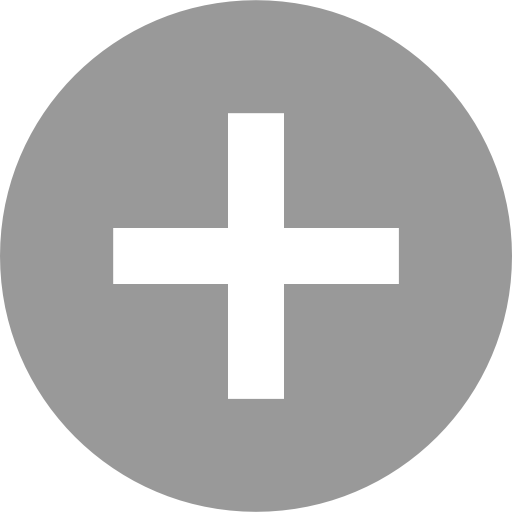
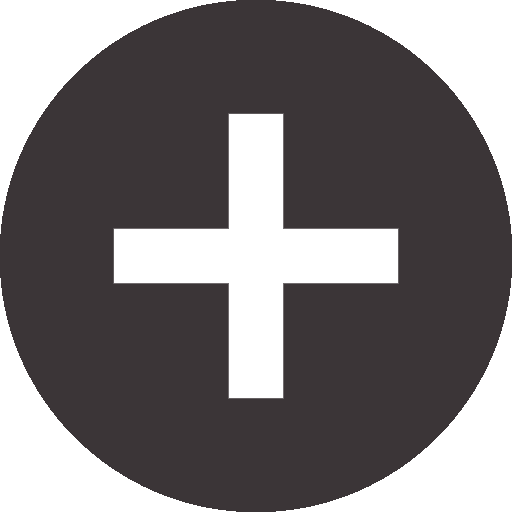
fixed add button and introduced dedicated windows user

diff --git a/Smurftown/UI/MVVM/View/AccountsView.xaml b/Smurftown/UI/MVVM/View/AccountsView.xaml
@@ -1,77 +1,99 @@
 <UserControl x:Class="Smurftown.UI.MVVM.View.AccountsView"
              xmlns="http://schemas.microsoft.com/winfx/2006/xaml/presentation"
              xmlns:x="http://schemas.microsoft.com/winfx/2006/xaml"
-             xmlns:mc="http://schemas.openxmlformats.org/markup-compatibility/2006" 
-             xmlns:d="http://schemas.microsoft.com/expression/blend/2008" 
+             xmlns:mc="http://schemas.openxmlformats.org/markup-compatibility/2006"
+             xmlns:d="http://schemas.microsoft.com/expression/blend/2008"
              xmlns:md="https://github.com/fantasticfiasco/mvvm-dialogs"
              xmlns:local="clr-namespace:Smurftown.UI.MVVM.View"
              xmlns:viewModel="clr-namespace:Smurftown.UI.MVVM.ViewModel"
-             mc:Ignorable="d" 
+             mc:Ignorable="d"
              d:DesignHeight="450" d:DesignWidth="800"
              md:DialogServiceViews.IsRegistered="True"
              Background="Transparent">
-    
+
     <UserControl.DataContext>
-        <viewModel:AccountsViewModel/>
+        <viewModel:AccountsViewModel />
     </UserControl.DataContext>
-    
+
     <Grid>
         <Grid.ColumnDefinitions>
-            <ColumnDefinition/>
+            <ColumnDefinition />
         </Grid.ColumnDefinitions>
         <Grid.RowDefinitions>
-            <RowDefinition Height="80"/>
-            <RowDefinition/>
+            <RowDefinition Height="80" />
+            <RowDefinition />
         </Grid.RowDefinitions>
 
         <DockPanel Grid.Row="0" Height="60" VerticalAlignment="Top" Background="#24262e" Margin="20,10,20,10">
-            <TextBlock Foreground="Gray" FontWeight="Bold" FontSize="14" VerticalAlignment="Center"  Margin="20,0,0,0">FILTER</TextBlock>
+            <TextBlock Foreground="Gray" FontWeight="Bold" FontSize="14" VerticalAlignment="Center" Margin="20,0,0,0">FILTER</TextBlock>
 
-            <ToggleButton IsChecked="{Binding OverwatchFiltered}" Style="{StaticResource BattlenetIconButtonTheme}" Margin="20,0,0,0" Width="50">
-                <Image Source="pack://application:,,,/UI/Images/overwatch.png"  RenderOptions.BitmapScalingMode="HighQuality" Height="35" Width="35" />
+            <ToggleButton Opacity="100" IsChecked="{Binding OverwatchFiltered}"
+                          Style="{StaticResource BattlenetIconButtonTheme}" Margin="20,0,0,0" Width="70">
+                <Image Source="pack://application:,,,/UI/Images/overwatch.png"
+                       RenderOptions.BitmapScalingMode="HighQuality" Height="35" Width="35" />
             </ToggleButton>
-            <ToggleButton IsChecked="{Binding HotsFiltered}" Style="{StaticResource BattlenetIconButtonTheme}" Margin="0" Width="50">
-                <Image Source="pack://application:,,,/UI/Images/hots.png"  RenderOptions.BitmapScalingMode="HighQuality" Height="35" Width="35" />
+            <ToggleButton IsChecked="{Binding HotsFiltered}" Style="{StaticResource BattlenetIconButtonTheme}"
+                          Margin="0" Width="70">
+                <Image Source="pack://application:,,,/UI/Images/hots.png" RenderOptions.BitmapScalingMode="HighQuality"
+                       Height="37" Width="37" />
             </ToggleButton>
-            <ToggleButton IsChecked="{Binding WowFiltered}" Style="{StaticResource BattlenetIconButtonTheme}" Margin="0" Width="50">
-                <Image Source="pack://application:,,,/UI/Images/wow.png"  RenderOptions.BitmapScalingMode="HighQuality" Height="35" Width="35" />
+            <ToggleButton IsChecked="{Binding WowFiltered}" Style="{StaticResource BattlenetIconButtonTheme}"
+                          Margin="0" Width="70">
+                <Image Source="pack://application:,,,/UI/Images/wow.png" RenderOptions.BitmapScalingMode="HighQuality"
+                       Height="40" Width="40" />
             </ToggleButton>
-            <ToggleButton IsChecked="{Binding DiabloFiltered}" Style="{StaticResource BattlenetIconButtonTheme}" Margin="0" Width="50">
-                <Image Source="pack://application:,,,/UI/Images/diablo4.png"  RenderOptions.BitmapScalingMode="HighQuality" Height="35" Width="35" />
+            <ToggleButton IsChecked="{Binding DiabloFiltered}" Style="{StaticResource BattlenetIconButtonTheme}"
+                          Margin="0" Width="70">
+                <Image Source="pack://application:,,,/UI/Images/diablo4.png"
+                       RenderOptions.BitmapScalingMode="HighQuality" Height="40" Width="40" />
             </ToggleButton>
-            <Button Command="{Binding CreateAccountCommand}" Background="Transparent" HorizontalAlignment="Right" BorderBrush="Transparent" Style="{StaticResource BattlenetButtonSecondaryTheme}" Margin="0,0,30,0" Width="60">
-                <Image Source="pack://application:,,,/UI/Images/add.png"  Height="35" Width="35"/>
+            <Button Command="{Binding CreateAccountCommand}" Background="Transparent" HorizontalAlignment="Right"
+                    BorderBrush="Transparent" Style="{StaticResource BattlenetButtonSecondaryTheme}" Margin="0,0,30,0"
+                    Width="70">
+                <Grid>
+                    <!-- Outer Circle -->
+                    <Ellipse Width="36" Height="36" Fill="#FF454545" />
+
+                    <!-- Horizontal Line of Plus Sign -->
+                    <Rectangle Width="12" Height="2" Fill="White" VerticalAlignment="Center"
+                               HorizontalAlignment="Center" />
+
+                    <!-- Vertical Line of Plus Sign -->
+                    <Rectangle Width="2" Height="12" Fill="White" VerticalAlignment="Center"
+                               HorizontalAlignment="Center" />
+                </Grid>
             </Button>
 
         </DockPanel>
 
-        <ItemsControl  Grid.Row="1"  ItemsSource="{Binding BattlenetAccounts, UpdateSourceTrigger=PropertyChanged}">
-                
-                <ItemsControl.ItemsPanel>
-                    <ItemsPanelTemplate>
-                 
-                        <WrapPanel Orientation="Horizontal" HorizontalAlignment="Center"/>
-                   
+        <ItemsControl Grid.Row="1" ItemsSource="{Binding BattlenetAccounts, UpdateSourceTrigger=PropertyChanged}">
+
+            <ItemsControl.ItemsPanel>
+                <ItemsPanelTemplate>
+
+                    <WrapPanel Orientation="Horizontal" HorizontalAlignment="Center" />
+
                 </ItemsPanelTemplate>
 
-                </ItemsControl.ItemsPanel>
-                <ItemsControl.ItemTemplate>
-                    <DataTemplate>
-                        <local:AccountCardView Margin="5">
-                            <local:AccountCardView.DataContext>
-                                <Binding Path="." Converter="{StaticResource BattlenetAccountToCardViewModelConverter}" />
-                            </local:AccountCardView.DataContext>
-                        </local:AccountCardView>
-                    </DataTemplate>
-                </ItemsControl.ItemTemplate>
+            </ItemsControl.ItemsPanel>
+            <ItemsControl.ItemTemplate>
+                <DataTemplate>
+                    <local:AccountCardView Margin="5">
+                        <local:AccountCardView.DataContext>
+                            <Binding Path="." Converter="{StaticResource BattlenetAccountToCardViewModelConverter}" />
+                        </local:AccountCardView.DataContext>
+                    </local:AccountCardView>
+                </DataTemplate>
+            </ItemsControl.ItemTemplate>
             <ItemsControl.Template>
                 <ControlTemplate TargetType="{x:Type ItemsControl}">
-                    <ScrollViewer Style="{StaticResource BattlenetScrollViewerTheme}" HorizontalScrollBarVisibility="Disabled" VerticalScrollBarVisibility="Auto">
+                    <ScrollViewer Style="{StaticResource BattlenetScrollViewerTheme}"
+                                  HorizontalScrollBarVisibility="Disabled" VerticalScrollBarVisibility="Auto">
                         <ItemsPresenter />
                     </ScrollViewer>
                 </ControlTemplate>
             </ItemsControl.Template>
         </ItemsControl>
-        
+
     </Grid>
 </UserControl>

diff --git a/Smurftown/UI/MVVM/View/AddOrEditAccount.xaml b/Smurftown/UI/MVVM/View/AddOrEditAccount.xaml
@@ -20,12 +20,11 @@
         </LinearGradientBrush>
     </Window.Background>
 
-   
 
     <StackPanel Orientation="Vertical">
         <Border Margin="0,0,0,0" Height="60" Background="#15171E">
             <TextBlock Text="Create or modify account" Foreground="White" FontSize="24" FontWeight="DemiBold"
-                   HorizontalAlignment="Left" VerticalAlignment="Center" Margin="20,0,0,0" />
+                       HorizontalAlignment="Left" VerticalAlignment="Center" Margin="20,0,0,0" />
         </Border>
         <Separator Background="#313339" Margin="0,0,0,20" />
         <StackPanel Orientation="Vertical">
@@ -55,12 +54,14 @@
             <StackPanel Orientation="Vertical">
                 <TextBlock Text="ACCOUNT PASSWORD" Foreground="#8F8F92" FontSize="14" FontWeight="Bold"
                            HorizontalAlignment="Left" VerticalAlignment="Center" Margin="20,0,0,0" />
-                <PasswordBox PasswordChanged="PasswordChanged" local:PasswordBoxHelper.BoundPassword="{Binding Password}" HorizontalAlignment="Left"
+                <PasswordBox PasswordChanged="PasswordChanged"
+                             local:PasswordBoxHelper.BoundPassword="{Binding Password}" HorizontalAlignment="Left"
                              FontSize="14"
                              Style="{StaticResource BattlenetPasswordBoxTheme}"
                              Width="300" Height="30" Margin="20,10,0,20" />
             </StackPanel>
         </StackPanel>
+
 
         <StackPanel Orientation="Vertical">
             <TextBlock Text="SELECT GAMES" Foreground="#8F8F92" FontSize="14" FontWeight="Bold"
@@ -77,30 +78,43 @@
                            RenderOptions.BitmapScalingMode="HighQuality" Height="35" Width="35" />
                 </ToggleButton>
                 <ToggleButton IsChecked="{Binding WowChecked}" Style="{StaticResource BattlenetIconButtonTheme}"
-              Margin="10,0,0,0" Width="50">
+                              Margin="10,0,0,0" Width="50">
                     <Image Source="pack://application:,,,/UI/Images/wow.png"
-           RenderOptions.BitmapScalingMode="HighQuality" Height="35" Width="35" />
+                           RenderOptions.BitmapScalingMode="HighQuality" Height="35" Width="35" />
                 </ToggleButton>
                 <ToggleButton IsChecked="{Binding DiabloChecked}" Style="{StaticResource BattlenetIconButtonTheme}"
-              Margin="10,0,0,0" Width="50">
+                              Margin="10,0,0,0" Width="50">
                     <Image Source="pack://application:,,,/UI/Images/diablo4.png"
-           RenderOptions.BitmapScalingMode="HighQuality" Height="35" Width="35" />
+                           RenderOptions.BitmapScalingMode="HighQuality" Height="35" Width="35" />
                 </ToggleButton>
             </StackPanel>
         </StackPanel>
         <Separator Background="#313339" Margin="0,60,0,0" />
-        
-        <Border Margin="0,0,0,0" Height="80" Background="#15171E" >
+
+        <Border Margin="0,0,0,0" Height="80" Background="#15171E">
             <StackPanel Orientation="Horizontal" Margin="20,10,20,20">
                 <Button Style="{StaticResource BattlenetButtonPrimaryTheme}" Content="Save" Width="120"
-                    Height="30" Command="{Binding OkCommand}" IsDefault="True"
-                    IsEnabled="{Binding SaveButtonEnabled}" />
+                        Height="30" Command="{Binding OkCommand}" IsDefault="True"
+                        IsEnabled="{Binding SaveButtonEnabled}" />
                 <Button Command="{Binding CancelCommand}" Style="{StaticResource BattlenetButtonSecondaryTheme}"
-                    Width="120" Content="Cancel" Height="30"
-                    Margin="10,0,0,0" IsCancel="True">
+                        Width="120" Content="Cancel" Height="30"
+                        Margin="10,0,0,0" IsCancel="True">
                 </Button>
+                <StackPanel Orientation="Horizontal" HorizontalAlignment="Right" Margin="300,0,0,0">
+                    <CheckBox Margin="0,15,0,0">
+                        <TextBlock Text="dedicated windows user" Foreground="#8F8F92" FontSize="12"
+                                   FontWeight="DemiBold" Margin="0,0,0,0">
+                            <TextBlock.ToolTip>
+                                <ToolTip>
+                                    <TextBlock
+                                        Text="If enabled, this option will create a dedicated Windows user to start the Battlenetclient with. &#x0a;This will ensure that your Battlenet credentials are saved in Windows. &#x0a;Another benefit is that you are able to start multiple Battlenet instances at once." />
+                                </ToolTip>
+                            </TextBlock.ToolTip>
+                        </TextBlock>
+                    </CheckBox>
+                </StackPanel>
             </StackPanel>
         </Border>
-       
+
     </StackPanel>
 </Window>

diff --git a/Smurftown/UI/MVVM/ViewModel/AccountCardViewModel.cs b/Smurftown/UI/MVVM/ViewModel/AccountCardViewModel.cs
@@ -2,7 +2,6 @@
 using System.Windows.Input;
 using CommunityToolkit.Mvvm.ComponentModel;
 using CommunityToolkit.Mvvm.Input;
-using MvvmDialogs;
 using Smurftown.Backend.Entity;
 using Smurftown.Backend.Gateway;
 using Smurftown.UI.MVVM.View;
@@ -12,15 +11,21 @@ namespace Smurftown.UI.MVVM.ViewModel
     class AccountCardViewModel : ObservableObject
     {
         private static readonly WindowsAccountGateway _windowsAccountGateway = WindowsAccountGateway.Instance;
-        
+
         private BattlenetAccount? _account;
+        private RelayCommand _copyPasswordCommand;
+        private Visibility _diablo;
+        private Visibility _hots;
 
         private string _imageSource;
 
 
         private RelayCommand _openBattlenetCommand;
         private RelayCommand _openSettingsCommand;
-        private RelayCommand _copyPasswordCommand;
+
+        private Visibility _overwatch;
+        private Visibility _wow;
+
         public AccountCardViewModel(BattlenetAccount account)
         {
             Account = account;
@@ -34,15 +39,10 @@ namespace Smurftown.UI.MVVM.ViewModel
         {
         }
 
-        private Visibility _overwatch;
-        private Visibility _hots;
-        private Visibility _diablo;
-        private Visibility _wow;
-
         public Visibility Overwatch
         {
             get { return _overwatch; }
-            set { SetProperty(ref _overwatch , value); }
+            set { SetProperty(ref _overwatch, value); }
         }
 
         public Visibility Hots
@@ -110,16 +110,6 @@ namespace Smurftown.UI.MVVM.ViewModel
             }
         }
 
-        private bool CanCopyPassword()
-        {
-            return true;
-        }
-
-        private void CopyPassword()
-        {
-            Clipboard.SetText(_account?.Password);
-        }
-
         public ICommand OpenBattlenetCommand
         {
             get
@@ -152,6 +142,16 @@ namespace Smurftown.UI.MVVM.ViewModel
             }
         }
 
+        private bool CanCopyPassword()
+        {
+            return true;
+        }
+
+        private void CopyPassword()
+        {
+            Clipboard.SetText(_account?.Password);
+        }
+
         private bool CanOpenBattlenet()
         {
             return true;
@@ -174,9 +174,11 @@ namespace Smurftown.UI.MVVM.ViewModel
 
         private void ShowDialog(Func<AddOrEditAccountViewModel, bool?> showDialog)
         {
+            Application.Current.MainWindow!.Opacity = 0.4;
             var dialogViewModel = new AddOrEditAccountViewModel(_account!);
 
             var success = showDialog(dialogViewModel);
+            Application.Current.MainWindow!.Opacity = 100;
             dialogViewModel.Execute(success);
         }
     }

diff --git a/Smurftown/UI/MVVM/View/AddOrEditAccountViewModel.cs b/Smurftown/UI/MVVM/View/AddOrEditAccountViewModel.cs
@@ -12,16 +12,17 @@ public class AddOrEditAccountViewModel : ObservableObject, IModalDialogViewModel
 {
     private static readonly BattlenetAccountGateway _battlenetAccountGateway = BattlenetAccountGateway.Instance;
     private static readonly WindowsAccountGateway _windowsAccountGateway = WindowsAccountGateway.Instance;
+    private bool _dedicatedWindowsUserChecked;
+    private bool _diabloChecked;
 
     private bool? _dialogResult;
     private long? _discriminator;
     private string? _email;
+    private bool _hotsChecked;
     private string? _name;
     private bool _overwatchChecked;
-    private bool _hotsChecked;
-    private bool _wowChecked;
-    private bool _diabloChecked;
     private bool _saveButtonEnabled;
+    private bool _wowChecked;
 
     public AddOrEditAccountViewModel(BattlenetAccount? account)
     {
@@ -94,6 +95,17 @@ public class AddOrEditAccountViewModel : ObservableObject, IModalDialogViewModel
         {
             if (value == _overwatchChecked) return;
             _overwatchChecked = value;
+            OnPropertyChanged();
+        }
+    }
+
+    public bool DedicatedWindowsUserChecked
+    {
+        get => _dedicatedWindowsUserChecked;
+        set
+        {
+            if (value == _dedicatedWindowsUserChecked) return;
+            _dedicatedWindowsUserChecked = value;
             OnPropertyChanged();
         }
     }
@@ -180,6 +192,7 @@ public class AddOrEditAccountViewModel : ObservableObject, IModalDialogViewModel
             Email = Email!,
             Password = Password!,
             Overwatch = OverwatchChecked,
+            DedicatedWindowsUser = DedicatedWindowsUserChecked,
             Hots = HotsChecked,
             Wow = WowChecked,
             Diablo = DiabloChecked

diff --git a/Smurftown/Backend/Entity/BattlenetAccount.cs b/Smurftown/Backend/Entity/BattlenetAccount.cs
@@ -20,10 +20,12 @@
         }
 
         public required string Password { get; set; }
-        public required Boolean Overwatch { get; set; }
-        public required Boolean Hots { get; set; }
-        public required Boolean Wow { get; set; }
-        public required Boolean Diablo { get; set; }
+        public required bool Overwatch { get; set; }
+        public required bool Hots { get; set; }
+        public required bool Wow { get; set; }
+        public required bool Diablo { get; set; }
+
+        public required bool DedicatedWindowsUser { get; set; }
 
         public int CompareTo(BattlenetAccount? other)
         {
